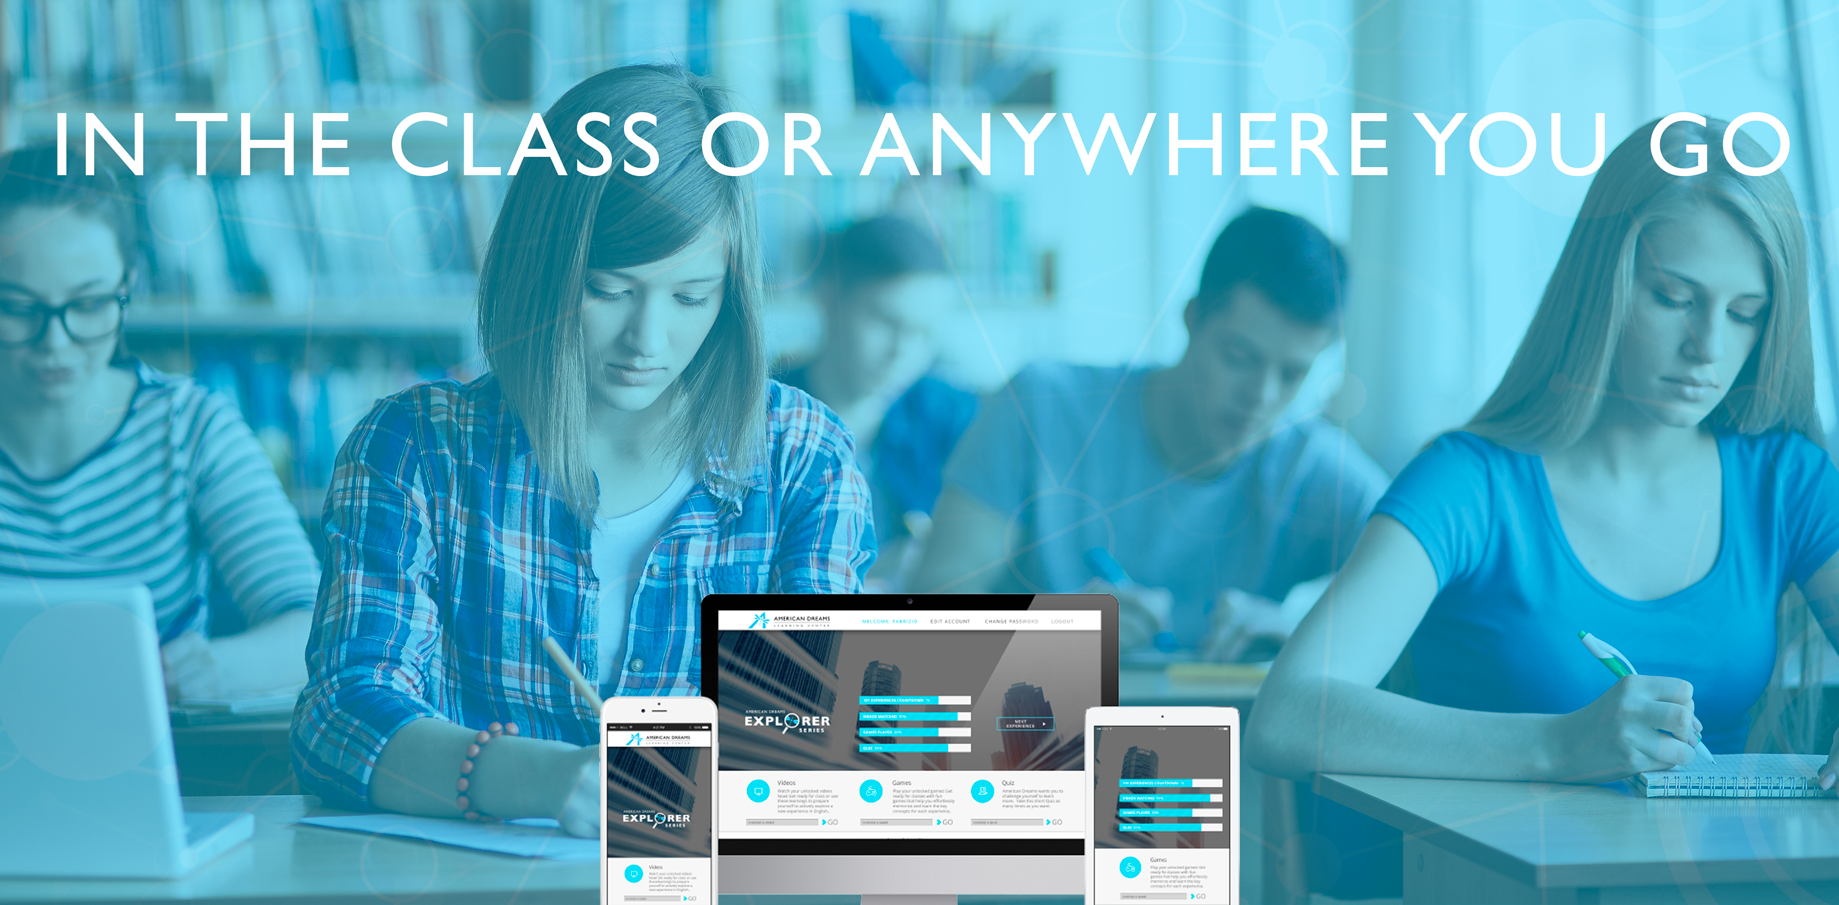
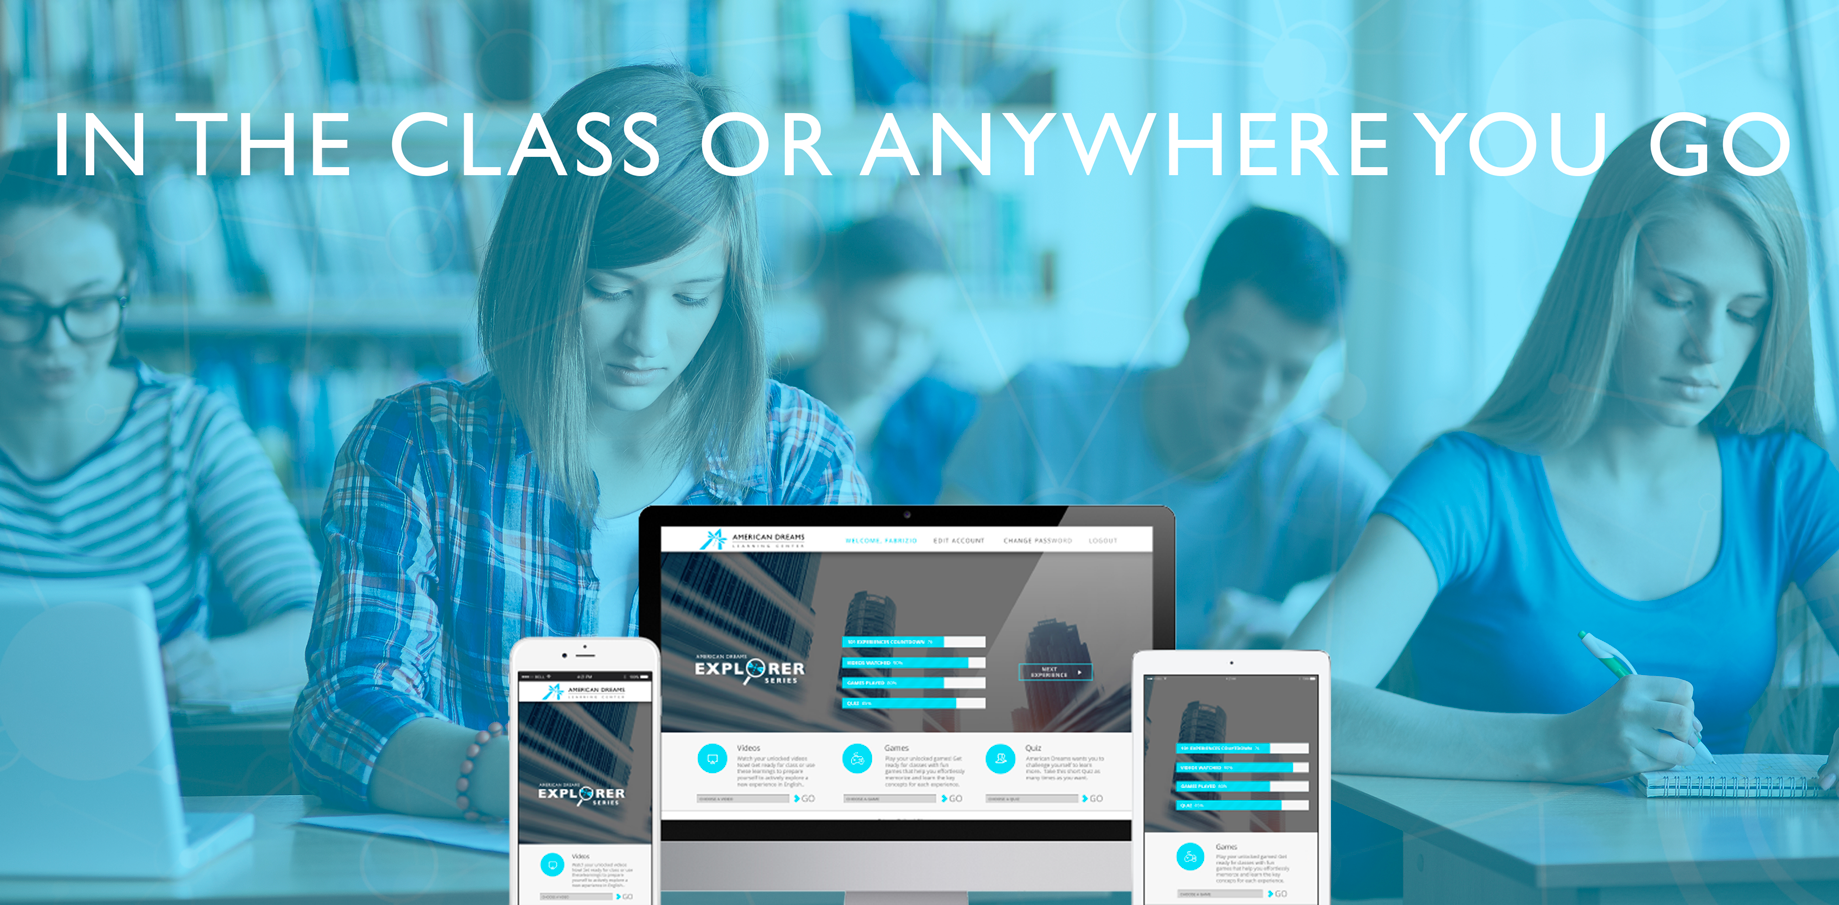
added better responsiveness
changed image names too

Changed region(s): [[0.279, 0.5569, 0.7439, 1.0]]

diff --git a/videoTest/index.html b/videoTest/index.html
@@ -14,6 +14,7 @@
 <link href="css/font-awesome.min.css" rel="stylesheet" media="screen">
 <link rel="stylesheet" href="Remodal-master/dist/remodal.css">
 <link rel="stylesheet" href="Remodal-master/dist/remodal-default-theme.css">
+<link rel="stylesheet" href="https://maxcdn.bootstrapcdn.com/font-awesome/4.5.0/css/font-awesome.min.css">
 <!-- Javascript/jQuery links -->
 <script src="//code.jquery.com/jquery-1.11.3.min.js"></script>
 <script src="//code.jquery.com/jquery-migrate-1.2.1.min.js"></script>
@@ -164,7 +165,7 @@
     <!-- Description 1 -->
 	  <div class="desc">
       <div class="container">
-         <img class="badge" src="images/badge.png">
+         <img class="badge" src="images/badge.png" >
           <h2>Real Life Experience Experiences</h2>
           <p>Um programa de aprendizagem composta (Blended Learning), de 12 a 24 meses de duração, desenvolvido para ajudar os alunos a aprender Inglês, usando uma abordagem que facilita o processo cognitivo. Toda aula é multinível, permitindo-nos atender às necessidades de todos os alunos independentemente do domínio atual do idioma. <a href="">Saiba Mais</a></p>
        <!--    <h2>About us</h2>
@@ -172,7 +173,7 @@
         </div>
     </div>
 
-    <!-- Description 2 -->
+    <!-- Description 2 banner -->
     <div class="desc2">
         <div class="container">
          
@@ -185,19 +186,23 @@
           <div class="features-section">
                 <ul>
                   <li>
-                      <div class="feature-icon2 icon4"></div>
-                       <h4>ADAPTIVE  LEARNING</h4>
-                        <p>Enquanto alguns alunos levam mais tempo para completer os jogos do que outros, o resultado final é sempre o mesmo – 100% de êxito.  Todos os alunos tem a mesma oportunidade de entrar na classe totalmente preparado.</p>
+                        <!-- <div class="feature-icon2 icon4"></div> -->
+                        <i class="fa fa-gamepad" style="font-size:330%;"></i>
+                        <h4>INTERACTIVE GAMIFICATION</h4>
+                        <p>Enter the state of flow: lose sense of time, ignore sirrounding distractions and focus on learning</p>
                      </li>
                      <li>
-                      <div class="feature-icon2 icon5"></div>
-                       <h4>INTERACTIVE GAMIFICATION</h4>
-                        <p>Entre num estado de Flow.  Perca a noção do tempo, ignore o ambiente ao seu redor e foque totalmente no aprendizado.</p>
+                        <!--   <div class="feature-icon2 icon5"></div> -->
+                        <i class="fa fa-lightbulb-o" style="font-size:330%;"></i>
+                        <h4>ADAPTIVE LEARNING</h4>
+                        <p>Although some individual students may take longer than others to successfully complete the games, the end result is always the same - 100% mastery. Every student
+                          is given an equal opportunity to come to class fully prepared.</p>
                      </li>
                      <li>
-                      <div class="feature-icon2 icon6"></div>
-                       <h4>SPACED REPETITION</h4>
-                        <p>Os especialistas confirmam que aproximadamente 40% de um aprendizado é esquecido até o o final do mesmo dia.   Através dos jogos de repetição espaçada, nosso alunos tem a possibilidade de aumentar sua retenção de memória sobre o aprendizado em até 90%. totalmente preparado.</p>
+                        <!-- <div class="feature-icon2 icon6"></div> -->
+                        <i class="fa fa-clock-o" style="font-size:330%;"></i>
+                        <h4>SPACED REPETITION</h4>
+                        <p>Experts state that approximatley 40% of what we learn is lost by the end of the day. Through spaced repitition games, our students can improve memory retention rates by up to 90%.</p>
                      </li>
                 </ul>
             </div>

diff --git a/videoTest/css/main.css b/videoTest/css/main.css
@@ -120,16 +120,19 @@ form{
 /*--------------------------------------------------------------------------------------------------------------*/
 .features{
   padding: 60px 0px;
-  background-color: #1d3c70;
+  /*background-color: #1d3c70;*/
   float: left;
   width: 100%;
 }
 .features-section{
   text-align: center;
+/*  background:url(../images/desc3.png) no-repeat 30% 0%/cover;*/
+  /*height: 550px;*/
 }
 .features2{
   padding: 7px 0px 62px 0px;
-  background-color: #00aeef;
+  background-color: #fff;
+  color:#4F4D4C;
   float: left;
   width: 100%;
   margin-top: -15px;
@@ -157,6 +160,7 @@ p.box-desc{
   display: block;
   text-align: center;
   float: left;
+  color:#4F4D4C;
 }
 .feature-icon{
   background:url(../images/feature-icons.png) no-repeat;
@@ -191,13 +195,13 @@ p.box-desc{
 .features-section ul li h4{
   font-size: 17px;
   font-weight: 600;
-  color: #FF9735;
+  color: #1C97CA;
   font-family: 'Open Sans', 'Raleway', sans-serif;
   line-height: 50px;
   margin-top: 20px;
 }
 .features-section ul li p{
-  color: #fff;
+  color: #4F4D4C;
   font-size: 15px;
   line-height: 20px;
   width: 90%;
@@ -233,9 +237,10 @@ p.box-desc{
   /*background-image: url(../images/bgbadge.png);  no-repeat fixed 30% 0%/cover*/
   background-color: #cccccc;
   margin-bottom: 0px;
-  background:url(../images/desc1.png) no-repeat fixed 30% 0%/cover;
+  /*background:url(../images/desc2.png) no-repeat fixed 30% 0%/cover;*/
+  background: url(../images/desc1.png) center center no-repeat fixed;
   /*background-repeat:no-repeat;*/
-  height: 878px;
+  height: 550px;
 }
 .desc2 h2{
   font-size: 30px;

diff --git a/videoTest/css/responsive.css b/videoTest/css/responsive.css
@@ -379,6 +379,9 @@ and (orientation : landscape){
     	font-size: 14px;
 		width: 100%;
 	}
+	.desc2{
+		background-position: 1% 0%
+	}
 	.features-section ul li {
     	display: block;
     	float: none;
@@ -473,6 +476,9 @@ and (orientation : landscape){
 	.desc p {
     	font-size: 14px;
 		width: 100%;
+	}
+	.desc2{
+		display: none;
 	}
 	.features{
 		padding: 140px 0px;
